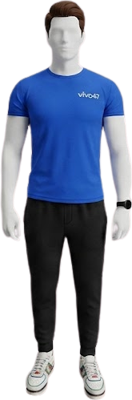
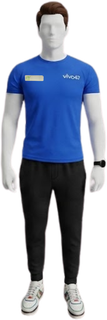
Imágenes de uniforme para todos los roles en Resultados por área

diff --git a/apariencia.html b/apariencia.html
@@ -1174,14 +1174,24 @@
   };
   function getArea(rol) { return AREA_POR_ROL[rol] || "Sin área"; }
 
-  // Imagen de uniforme por rol (carpeta roles/, tomadas de las Políticas
-  // de Apariencia). Los roles sin imagen solo muestran el nombre.
+  // Imagen de uniforme por rol (carpeta roles/, recortadas de las imágenes
+  // de la carpeta "Roles" de Capital Humano). "Lider" usa la de Ejecutivo
+  // (mismo uniforme según la Política de Apariencia).
   const ROL_IMAGENES = {
-    "Mobility": "roles/Mobility.png",
-    "Ejecutivo": "roles/Administrativo.png",
-    "Recepción": "roles/Administrativo.png",
-    "Lider": "roles/Administrativo.png",
-    "Relaciones Públicas": "roles/Administrativo.png"
+    "Ejecutivo": "roles/ejecutivo.png",
+    "Recepción": "roles/recepcion.png",
+    "Kids": "roles/kids.png",
+    "Lider": "roles/ejecutivo.png",
+    "Caja estacionamiento": "roles/orden-limpieza.png",
+    "Vestidores / técnico de Orden y Limpieza": "roles/orden-limpieza.png",
+    "Concierge vestidores": "roles/concierge-vestidores.png",
+    "Coach deportivo": "roles/coach.png",
+    "Nutrición": "roles/nutricion.png",
+    "Mobility": "roles/mobility.png",
+    "Estiramiento": "roles/estiramiento.png",
+    "Recepción Acuática": "roles/recepcion-acuatica.png",
+    "Instructor Acuática": "roles/instructor-acuatica.png",
+    "Relaciones Públicas": "roles/relaciones-publicas.png"
   };
 
   // [FIX 2026-07-02] loadData() (gviz) y loadBackendData() (Apps Script) corren
